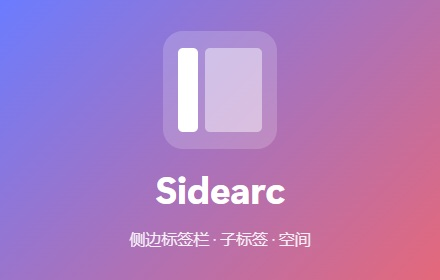
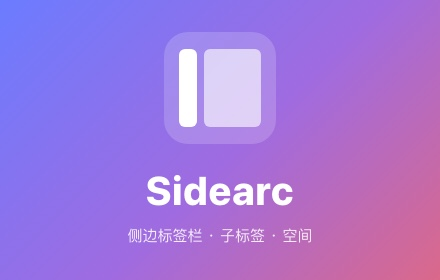
Add English store screenshots and promo tile
- The screenshot script now renders a Chinese and an English set; the
  English set goes to store/en/ (the extension UI itself stays Chinese)
- The small promo tile is generated by the script too
- README.en.md uses the English screenshots

diff --git a/store/screenshots/make.js b/store/screenshots/make.js
@@ -1,9 +1,12 @@
-// 重新生成应用商店的三张截图(store/screenshot-*.jpg,1280×800)。
-// 侧边栏部分直接套用 sidepanel.css,界面改了重新运行即可:npm run screenshots
+// 重新生成应用商店的截图(1280×800)和小宣传图(440×280),中英文各一套:
+//   中文 → store/screenshot-*.jpg、store/promo-small-440x280.jpg
+//   英文 → store/en/ 下同名文件
+// 侧边栏部分直接套用 sidepanel.css,界面改了重新运行即可:npm run screenshots。
+// 扩展界面本身只有中文,所以英文截图里侧边栏的按钮文字(搜索框、新标签页、清理)仍是中文,示例内容和文案是英文
 // 需要本机装有 Chrome(路径可用环境变量 CHROME 指定);macOS 上用自带的 sips 转成高质量 JPEG。
 
 import { execFileSync } from 'node:child_process';
-import { copyFileSync, existsSync, mkdtempSync, readFileSync, writeFileSync } from 'node:fs';
+import { copyFileSync, existsSync, mkdirSync, mkdtempSync, readFileSync, writeFileSync } from 'node:fs';
 import { tmpdir } from 'node:os';
 import { join } from 'node:path';
 import { BRAND_ICONS } from './brand-icons.js';
@@ -65,13 +68,57 @@ const FOLDER_OPEN = svgIcon('<path d="M2.5 12V4.5a1 1 0 011-1h3l1.5 1.5h4a1 1 0 
 const SEARCH = '<svg viewBox="0 0 16 16" width="14" height="14" fill="none" stroke="currentColor" stroke-width="1.7" stroke-linecap="round"><circle cx="7" cy="7" r="4.5"/><path d="M10.5 10.5L14 14"/></svg>';
 const MORE = '<svg viewBox="0 0 16 16" width="14" height="14" fill="currentColor"><circle cx="3" cy="8" r="1.3"/><circle cx="8" cy="8" r="1.3"/><circle cx="13" cy="8" r="1.3"/></svg>';
 
-// 空间:名字、颜色,以及顶部分组在浅色 / 深色下的颜色(Chrome 的分组配色)
-const SPACES = [
-  { name: '个人', color: '#6b7cff', group: ['#1a73e8', '#8ab4f8'] },
-  { name: '工作', color: '#4fae6e', group: ['#1e8e3e', '#81c995'] },
-  { name: '学习', color: '#f0913f', group: ['#e8710a', '#fcad70'] },
-  { name: '生活', color: '#e5687a', group: ['#d93025', '#f28b82'] },
+// 空间的颜色,以及顶部分组在浅色 / 深色下的颜色(Chrome 的分组配色);名字在下面的文案里
+const SPACE_COLORS = [
+  { color: '#6b7cff', group: ['#1a73e8', '#8ab4f8'] },
+  { color: '#4fae6e', group: ['#1e8e3e', '#81c995'] },
+  { color: '#f0913f', group: ['#e8710a', '#fcad70'] },
+  { color: '#e5687a', group: ['#d93025', '#f28b82'] },
 ];
+
+// 两种语言的文案:示例内容(空间名、标签页标题、别名)、左侧介绍、小宣传图的副标题。示例内容都是编的
+const TEXT = {
+  zh: {
+    dir: 'store',
+    font: '"PingFang SC",system-ui,sans-serif',
+    spaces: ['个人', '工作', '学习', '生活'],
+    notion: ['Notion – 项目规划', '规划'],
+    linear: 'Linear – 我的任务',
+    calendar: '日历',
+    folder: '旅行计划',
+    trip: ['东京五日游行程表', '行程'],
+    stay: ['京都民宿比价清单', '住宿'],
+    docs: '文档',
+    tips: '十个让浏览器更顺手的小技巧(附快捷键清单)',
+    tipsShort: '十个让浏览器更顺手的小技巧',
+    promo: '侧边标签栏 · 子标签 · 空间',
+    pages: [
+      { title: '把标签页<br>放到侧边', sub: '垂直排列,支持子标签和空间,常用的固定在顶部。', bullets: ['标签页竖着排,标题完整可见', '收藏夹和固定标签,一点即达', '固定标签可以分文件夹', '同一个网址只开一份'] },
+      { title: '子标签与别名', sub: '从网页里点开的链接自动归到它下面,再给重要的标签页起个名字。', bullets: ['网页里打开的链接自动成为子标签', '拖拽即可归组或移出', '别名显示在标题前,搜索也能搜到', '关错了,Ctrl/⌘+Z 撤销'] },
+      { title: '用空间分开<br>工作与生活', sub: '每个空间有自己的主题色、固定标签和标签页。', bullets: ['顶部标签栏的顺序和侧边栏一致', '按空间分组,其他空间自动折叠', '在顶部拖进别的分组,就是换空间', '重启浏览器后自动恢复'] },
+    ],
+  },
+  en: {
+    dir: 'store/en',
+    font: 'system-ui,-apple-system,"Segoe UI",sans-serif',
+    spaces: ['Personal', 'Work', 'Study', 'Life'],
+    notion: ['Notion – Project plan', 'Plan'],
+    linear: 'Linear – My issues',
+    calendar: 'Calendar',
+    folder: 'Trip planning',
+    trip: ['Tokyo 5-day itinerary', 'Itinerary'],
+    stay: ['Kyoto stays – price comparison', 'Stays'],
+    docs: 'Docs',
+    tips: '10 small tricks for a smoother browser (with shortcuts)',
+    tipsShort: '10 small browser tricks',
+    promo: 'Vertical tabs · Child tabs · Spaces',
+    pages: [
+      { title: 'Your tabs,<br>in the sidebar', sub: 'Vertical tabs with child tabs and spaces, and your favorites pinned on top.', bullets: ['Tabs stacked vertically, full titles', 'Favorites and pinned tabs, one click away', 'Organize pinned tabs in folders', 'One tab per address, no duplicates'] },
+      { title: 'Child tabs<br>and aliases', sub: 'Links you open land under the page they came from. Give important tabs your own names.', bullets: ['Links from a page become its child tabs', 'Drag to nest or un-nest', 'Aliases show before the title and are searchable', 'Closed by mistake? Ctrl/⌘+Z'] },
+      { title: 'Spaces for<br>work and life', sub: 'Each space has its own color and its own tabs.', bullets: ["Chrome's tab strip follows the sidebar order", 'Grouped by space, other spaces collapsed', 'Drag into another group to switch spaces', 'Restored after a browser restart'] },
+    ],
+  },
+};
 
 const row = (icon, title, { alias, cls = '', child, sound } = {}) =>
   `<div class="row ${cls}"${child ? ' style="--depth:1"' : ''}><img class="icon" src="${iconSrc(icon)}">` +
@@ -80,32 +127,33 @@ const row = (icon, title, { alias, cls = '', child, sound } = {}) =>
   (sound ? `<button class="btn">${SOUND}</button>` : '') +
   '</div>';
 
-// 侧边栏:和真实界面同样的结构和样式
-// 固定标签:folder 为真时放一个展开的文件夹(和真实界面同样的结构)
-function panel(active, dark, folder) {
-  const space = SPACES[active];
+// 侧边栏:和真实界面同样的结构和样式。folder 为真时固定标签里放一个展开的文件夹。
+// 界面自带的文字(搜索框、清理、新标签页)只有中文,两种语言都照实显示
+function panel(t, active, dark, folder) {
+  const color = SPACE_COLORS[active].color;
   // 收藏夹(所有空间共用):用流行网站的图标
   const favs = [['gmail', 'open'], ['github', 'open'], ['youtube', ''], ['figma', ''], ['spotify', '']]
     .map(([k, c]) => `<div class="tile ${c}"><img class="icon" src="${brand(k, dark)}"></div>`)
     .join('');
+  const notion = row('N', t.notion[0], { alias: t.notion[1], cls: 'open' });
   const pins = folder
-    ? row('N', 'Notion – 项目规划', { alias: '规划', cls: 'open' }) +
-      `<div class="row folder expanded">${FOLDER_OPEN}<span class="title">旅行计划</span></div>` +
-      row('T', '东京五日游行程表', { alias: '行程', cls: 'open', child: true }) +
-      row('K', '京都民宿比价清单', { alias: '住宿', child: true })
-    : row('N', 'Notion – 项目规划', { alias: '规划', cls: 'open' }) + row('L', 'Linear – 我的任务', { cls: 'open' }) + row('globe', '日历');
+    ? notion +
+      `<div class="row folder expanded">${FOLDER_OPEN}<span class="title">${esc(t.folder)}</span></div>` +
+      row('T', t.trip[0], { alias: t.trip[1], cls: 'open', child: true }) +
+      row('K', t.stay[0], { alias: t.stay[1], child: true })
+    : notion + row('L', t.linear, { cls: 'open' }) + row('globe', t.calendar);
   const tabs =
-    row('C', 'chrome.sidePanel | API | Chrome for Developers', { alias: '文档', cls: 'active' }) +
-    row('A', '十个让浏览器更顺手的小技巧(附快捷键清单)', { child: true }) +
+    row('C', 'chrome.sidePanel | API | Chrome for Developers', { alias: t.docs, cls: 'active' }) +
+    row('A', t.tips, { child: true }) +
     row('D', 'MDN Web Docs – color-mix()', { child: true }) +
     row(brand('youtube', dark), 'lofi hip hop radio – beats to relax/study to', { alias: 'BGM', sound: true }) +
     row('H', 'Hacker News', { cls: 'discarded' });
-  const dots = SPACES.map((s, i) => `<button class="space-dot${i === active ? ' on' : ''}"><i style="color:${s.color}"></i></button>`).join('');
-  return `<!doctype html><html style="--accent:${space.color};color-scheme:${dark ? 'dark' : 'light'}"><head><meta charset="utf-8">
+  const dots = SPACE_COLORS.map((s, i) => `<button class="space-dot${i === active ? ' on' : ''}"><i style="color:${s.color}"></i></button>`).join('');
+  return `<!doctype html><html style="--accent:${color};color-scheme:${dark ? 'dark' : 'light'}"><head><meta charset="utf-8">
 <link rel="stylesheet" href="sidepanel.css">${dark ? `<style>${darkVars}</style>` : ''}</head><body>
 <header><label class="search">${SEARCH}<input id="search" placeholder="搜索标签页或输入网址"></label></header>
 <main id="scroll"><section id="favs" class="zone grid" style="--cols:5">${favs}</section>
-<div class="space-head"><span id="space-name">${space.name}</span><button class="ghost">${MORE}</button></div>
+<div class="space-head"><span id="space-name">${esc(t.spaces[active])}</span><button class="ghost">${MORE}</button></div>
 <section id="pins" class="zone list">${pins}</section>
 <div class="divider"><span></span><button class="ghost">清理</button></div>
 <button class="row new">${PLUS}<span class="title">新标签页</span></button>
@@ -114,18 +162,20 @@ function panel(active, dark, folder) {
 }
 
 // 顶部标签栏(示意):收藏的标签页在最左边,然后每个空间一个分组,当前空间展开,其他折叠
-function strip(active, dark, folder) {
+function strip(t, active, dark, folder) {
   const tab = (icon, title, cls = '') => `<div class="tab ${cls}"><img src="${iconSrc(icon)}"><span>${esc(title)}</span></div>`;
   let out = tab(brand('gmail', dark), 'Gmail', 'fav') + tab(brand('github', dark), 'GitHub', 'fav');
-  SPACES.forEach((s, i) => {
+  SPACE_COLORS.forEach((s, i) => {
     const g = s.group[dark ? 1 : 0];
-    if (i !== active) return (out += `<div class="chip" style="--g:${g}">${s.name}</div>`);
+    const chip = `<div class="chip" style="--g:${g}">${esc(t.spaces[i])}</div>`;
+    if (i !== active) return (out += chip);
     out +=
-      `<div class="chip" style="--g:${g}">${s.name}</div><div class="group" style="--g:${g}">` +
-      tab('N', 'Notion – 项目规划') +
-      (folder ? tab('T', '东京五日游行程表') : tab('L', 'Linear – 我的任务')) +
+      chip +
+      `<div class="group" style="--g:${g}">` +
+      tab('N', t.notion[0]) +
+      (folder ? tab('T', t.trip[0]) : tab('L', t.linear)) +
       tab('C', 'chrome.sidePanel', 'on') +
-      tab('A', '十个让浏览器更顺手的小技巧') +
+      tab('A', t.tipsShort) +
       tab('D', 'MDN Web Docs') +
       tab(brand('youtube', dark), 'lofi hip hop radio') +
       tab('H', 'Hacker News') +
@@ -134,18 +184,32 @@ function strip(active, dark, folder) {
   return out + '<div class="newtab">+</div>';
 }
 
-function page({ file, active, dark, folder, title, sub, bullets }) {
-  const n = file;
-  writeFileSync(join(OUT, `panel-${n}.html`), panel(active, dark, folder));
-  const { color } = SPACES[active];
+// 把 OUT 里的一个 HTML 截成 JPEG:先出 PNG 再用 sips 转(画质好);没有 sips(非 macOS)就直接让 Chrome 出 JPEG
+function capture(html, file, [w, h]) {
+  const png = join(OUT, html.replace(/\.html$/, '.png'));
+  const flags = ['--headless=new', '--disable-gpu', '--hide-scrollbars', '--force-device-scale-factor=1', `--window-size=${w},${h}`];
+  const shoot = (to) => execFileSync(CHROME, [...flags, `--screenshot=${to}`, 'file://' + join(OUT, html)], { stdio: 'ignore' });
+  try {
+    shoot(png);
+    execFileSync('sips', ['-s', 'format', 'jpeg', '-s', 'formatOptions', '90', png, '--out', file], { stdio: 'ignore' });
+  } catch {
+    shoot(file);
+  }
+  console.log('已生成', file.slice(ROOT.length));
+}
+
+function page(t, { file, active, dark, folder }, { title, sub, bullets }) {
+  const n = `${t.dir.replace(/\W/g, '-')}-${file}`;
+  writeFileSync(join(OUT, `panel-${n}.html`), panel(t, active, dark, folder));
+  const { color } = SPACE_COLORS[active];
   const c = dark
     ? { bg: 'linear-gradient(135deg,#1c1c22,#24212a 60%,#2a2027)', fg: '#f3f3f7', fg2: '#a9a9b5', win: '#232327', bar: '#2b2b30', line: 'rgba(255,255,255,.08)', ph: '#333338', tab: '#3a3a40', tabFg: '#e8e8ee', toolbar: '#2f2f35', lights: '#55555c', chipFg: '#202124', shadow: '.45' }
     : { bg: 'linear-gradient(135deg,#eef0ff,#f4f2fb 55%,#f7eef3)', fg: '#1d1d24', fg2: '#5f6170', win: '#fff', bar: '#f1f1f4', line: 'rgba(0,0,0,.08)', ph: '#ececef', tab: '#fff', tabFg: '#2a2a30', toolbar: '#fff', lights: '#d7d7dc', chipFg: '#fff', shadow: '.16' };
   writeFileSync(
     join(OUT, `shot-${n}.html`),
     `<!doctype html><html><head><meta charset="utf-8"><style>
-*{box-sizing:border-box;margin:0} body{width:1280px;height:800px;overflow:hidden;background:${c.bg};font-family:"PingFang SC","Segoe UI",system-ui,sans-serif;color:${c.fg};-webkit-font-smoothing:antialiased}
-.copy{position:absolute;left:64px;top:50%;transform:translateY(-50%);width:400px}
+*{box-sizing:border-box;margin:0} body{width:1280px;height:800px;overflow:hidden;background:${c.bg};font-family:${t.font};color:${c.fg};-webkit-font-smoothing:antialiased}
+.copy{position:absolute;left:64px;top:50%;transform:translateY(-50%);width:410px}
 .brand{display:flex;align-items:center;gap:12px;font-weight:700;font-size:20px;margin-bottom:28px} .brand img{width:40px;height:40px}
 h1{font-size:46px;line-height:1.22;font-weight:800;letter-spacing:.5px} .sub{margin:16px 0 26px;font-size:18px;line-height:1.65;color:${c.fg2}}
 ul{list-style:none;padding:0;font-size:17px;line-height:1.5} li{position:relative;padding-left:20px;margin:9px 0}
@@ -165,49 +229,39 @@ li::before{content:"";position:absolute;left:0;top:7px;width:10px;height:10px;bo
 .content{flex:1;padding:34px 28px} .content i{display:block;height:14px;border-radius:7px;background:${c.ph};margin-bottom:14px}
 </style></head><body>
 <div class="copy"><div class="brand"><img src="logo.png">Sidearc</div><h1>${title}</h1><p class="sub">${esc(sub)}</p><ul>${bullets.map((b) => `<li>${esc(b)}</li>`).join('')}</ul></div>
-<div class="win"><div class="strip"><div class="lights"><i></i><i></i><i></i></div>${strip(active, dark, folder)}</div>
+<div class="win"><div class="strip"><div class="lights"><i></i><i></i><i></i></div>${strip(t, active, dark, folder)}</div>
 <div class="toolbar"><div class="url"></div></div>
 <div class="body"><iframe src="panel-${n}.html"></iframe><div class="content">
 <i style="width:42%;height:26px;border-radius:8px;margin-bottom:24px"></i><i></i><i style="width:92%"></i><i style="width:80%"></i>
 <i style="height:150px;border-radius:14px;margin:24px 0"></i><i></i><i style="width:88%"></i><i style="width:60%"></i></div></div></div>
 </body></html>`
   );
-
-  const png = join(OUT, `shot-${n}.png`);
-  const jpg = join(ROOT, `store/screenshot-${n}.jpg`);
-  const flags = ['--headless=new', '--disable-gpu', '--hide-scrollbars', '--force-device-scale-factor=1', '--window-size=1280,800'];
-  const shoot = (to) => execFileSync(CHROME, [...flags, `--screenshot=${to}`, 'file://' + join(OUT, `shot-${n}.html`)], { stdio: 'ignore' });
-  try {
-    shoot(png);
-    execFileSync('sips', ['-s', 'format', 'jpeg', '-s', 'formatOptions', '90', png, '--out', jpg], { stdio: 'ignore' });
-  } catch {
-    shoot(jpg); // 没有 sips(非 macOS):直接用 Chrome 输出 JPEG,画质稍低
-  }
-  console.log('已生成', jpg.slice(ROOT.length));
+  capture(`shot-${n}.html`, join(ROOT, t.dir, `screenshot-${file}.jpg`), [1280, 800]);
 }
 
-page({
-  file: '1-tabs',
-  active: 0,
-  dark: false,
-  folder: true,
-  title: '把标签页<br>放到侧边',
-  sub: '垂直排列,支持子标签和空间,常用的固定在顶部。',
-  bullets: ['标签页竖着排,标题完整可见', '收藏夹和固定标签,一点即达', '固定标签可以分文件夹', '同一个网址只开一份'],
-});
-page({
-  file: '2-child-tabs',
-  active: 2,
-  dark: false,
-  title: '子标签与别名',
-  sub: '从网页里点开的链接自动归到它下面,再给重要的标签页起个名字。',
-  bullets: ['网页里打开的链接自动成为子标签', '拖拽即可归组或移出', '别名显示在标题前,搜索也能搜到', '关错了,Ctrl/⌘+Z 撤销'],
-});
-page({
-  file: '3-spaces-dark',
-  active: 1,
-  dark: true,
-  title: '用空间分开<br>工作与生活',
-  sub: '每个空间有自己的主题色、固定标签和标签页。',
-  bullets: ['顶部标签栏的顺序和侧边栏一致', '按空间分组,其他空间自动折叠', '在顶部拖进别的分组,就是换空间', '重启浏览器后自动恢复'],
-});
+// 小宣传图(440×280):渐变底,半透明方块里是白色的侧边栏图形,下面是名字和一句副标题
+function promo(t) {
+  const n = `promo-${t.dir.replace(/\W/g, '-')}.html`;
+  writeFileSync(
+    join(OUT, n),
+    `<!doctype html><html><head><meta charset="utf-8"><style>
+*{margin:0;box-sizing:border-box} body{width:440px;height:280px;overflow:hidden;display:flex;flex-direction:column;align-items:center;
+background:linear-gradient(135deg,#6b7cff 0%,#a06be0 50%,#e5687a 100%);font-family:${t.font};color:#fff;-webkit-font-smoothing:antialiased}
+.mark{margin-top:32px;width:112px;height:112px;border-radius:24px;background:rgba(255,255,255,.18);display:flex;gap:7px;padding:17px 15px}
+.mark i{border-radius:6px;background:#fff} .mark i:first-child{width:18px} .mark i:last-child{flex:1;background:rgba(255,255,255,.62)}
+h1{margin-top:22px;font-family:system-ui,-apple-system,sans-serif;font-size:40px;font-weight:800;letter-spacing:.5px} p{margin-top:12px;font-size:15px;opacity:.88}
+</style></head><body><div class="mark"><i></i><i></i></div><h1>Sidearc</h1><p>${esc(t.promo)}</p></body></html>`
+  );
+  capture(n, join(ROOT, t.dir, 'promo-small-440x280.jpg'), [440, 280]);
+}
+
+const SHOTS = [
+  { file: '1-tabs', active: 0, dark: false, folder: true },
+  { file: '2-child-tabs', active: 2, dark: false },
+  { file: '3-spaces-dark', active: 1, dark: true },
+];
+for (const t of Object.values(TEXT)) {
+  mkdirSync(join(ROOT, t.dir), { recursive: true });
+  SHOTS.forEach((shot, i) => page(t, shot, t.pages[i]));
+  promo(t);
+}

diff --git a/README.en.md b/README.en.md
@@ -8,11 +8,11 @@ Built on Manifest V3 and `chrome.sidePanel` with plain JS/CSS — no build step,
 
 > The interface is currently in Simplified Chinese.
 
-![Vertical tabs, favorites and pinned tabs](store/screenshot-1-tabs.jpg)
+![Vertical tabs, favorites and pinned tabs](store/en/screenshot-1-tabs.jpg)
 
 | Child tabs and aliases | Spaces and dark mode |
 | --- | --- |
-| ![Child tabs and aliases](store/screenshot-2-child-tabs.jpg) | ![Spaces and dark mode](store/screenshot-3-spaces-dark.jpg) |
+| ![Child tabs and aliases](store/en/screenshot-2-child-tabs.jpg) | ![Spaces and dark mode](store/en/screenshot-3-spaces-dark.jpg) |
 
 ## Features
 
@@ -101,7 +101,7 @@ No build step: the code is plain ES modules — edit, then reload the extension 
 npm test
 ```
 
-Tests use Node's built-in test runner (Node 20+), no dependencies. `npm run screenshots` regenerates the store screenshots (needs Chrome installed).
+Tests use Node's built-in test runner (Node 20+), no dependencies. `npm run screenshots` regenerates the store screenshots and promo tiles in Chinese and English (needs Chrome installed).
 
 See [CHANGELOG.md](CHANGELOG.md) for changes.
 

diff --git a/store/listing.md b/store/listing.md
@@ -6,8 +6,10 @@
 
 - 扩展包:`dist/sidearc-1.2.0.zip`(不在 git 里;重新打包见文末)
 - 商店图标:`icons/128.png`
-- 截图(1280×800):`store/screenshot-1-tabs.jpg`、`screenshot-2-child-tabs.jpg`、`screenshot-3-spaces-dark.jpg`(用 `npm run screenshots` 重新生成)
+- 截图(1280×800):`store/screenshot-1-tabs.jpg`、`screenshot-2-child-tabs.jpg`、`screenshot-3-spaces-dark.jpg`
 - 小型宣传图(440×280):`store/promo-small-440x280.jpg`
+- 英文版截图和小型宣传图在 `store/en/` 下,文件名相同。在开发者信息中心给英文(English)语言单独上传,商店会按用户的语言显示对应的图
+- 以上图片都用 `npm run screenshots` 重新生成
 
 ## 商品详情(Store listing)
 
